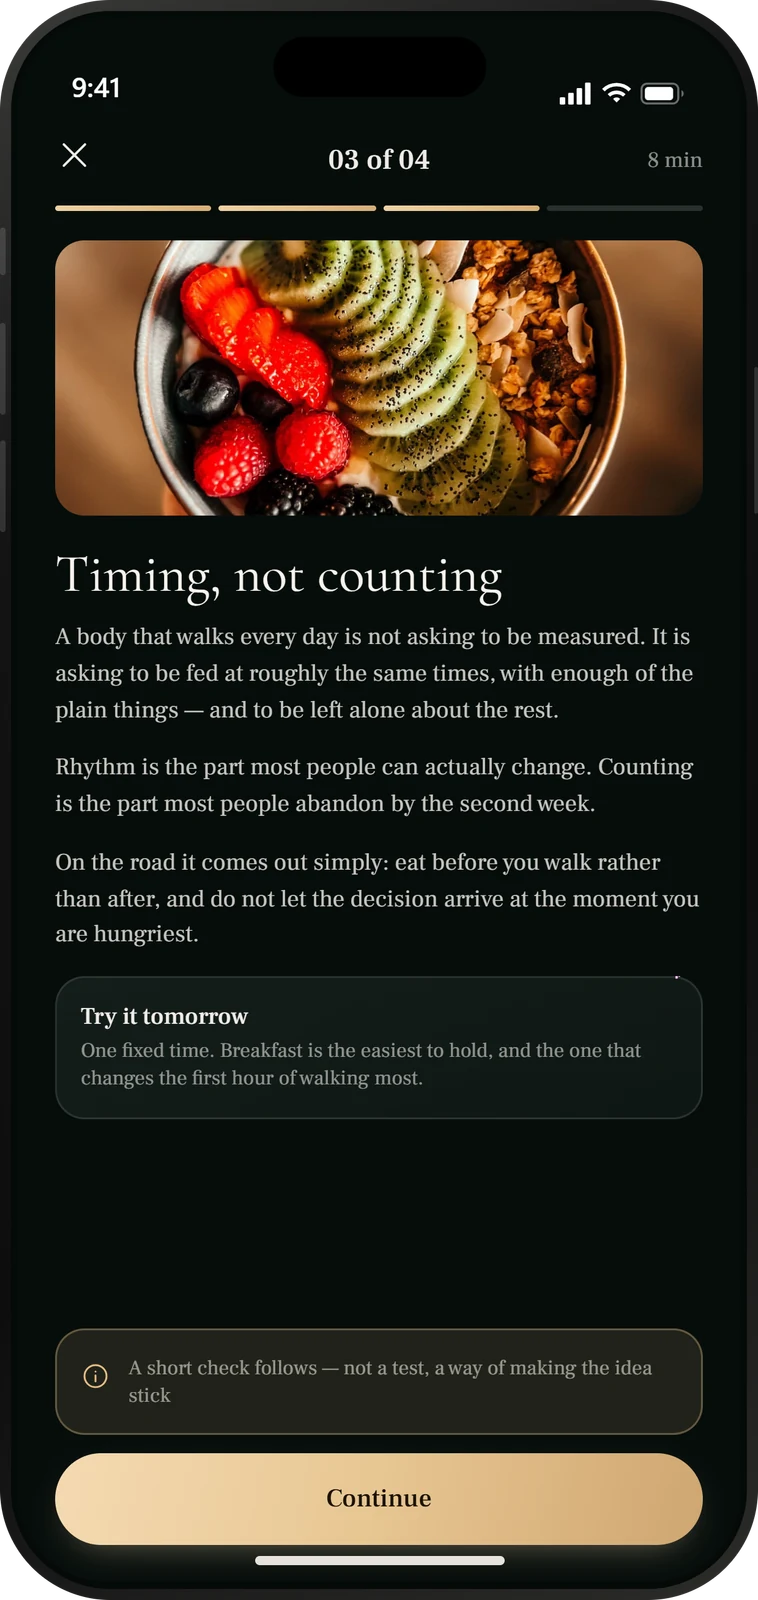
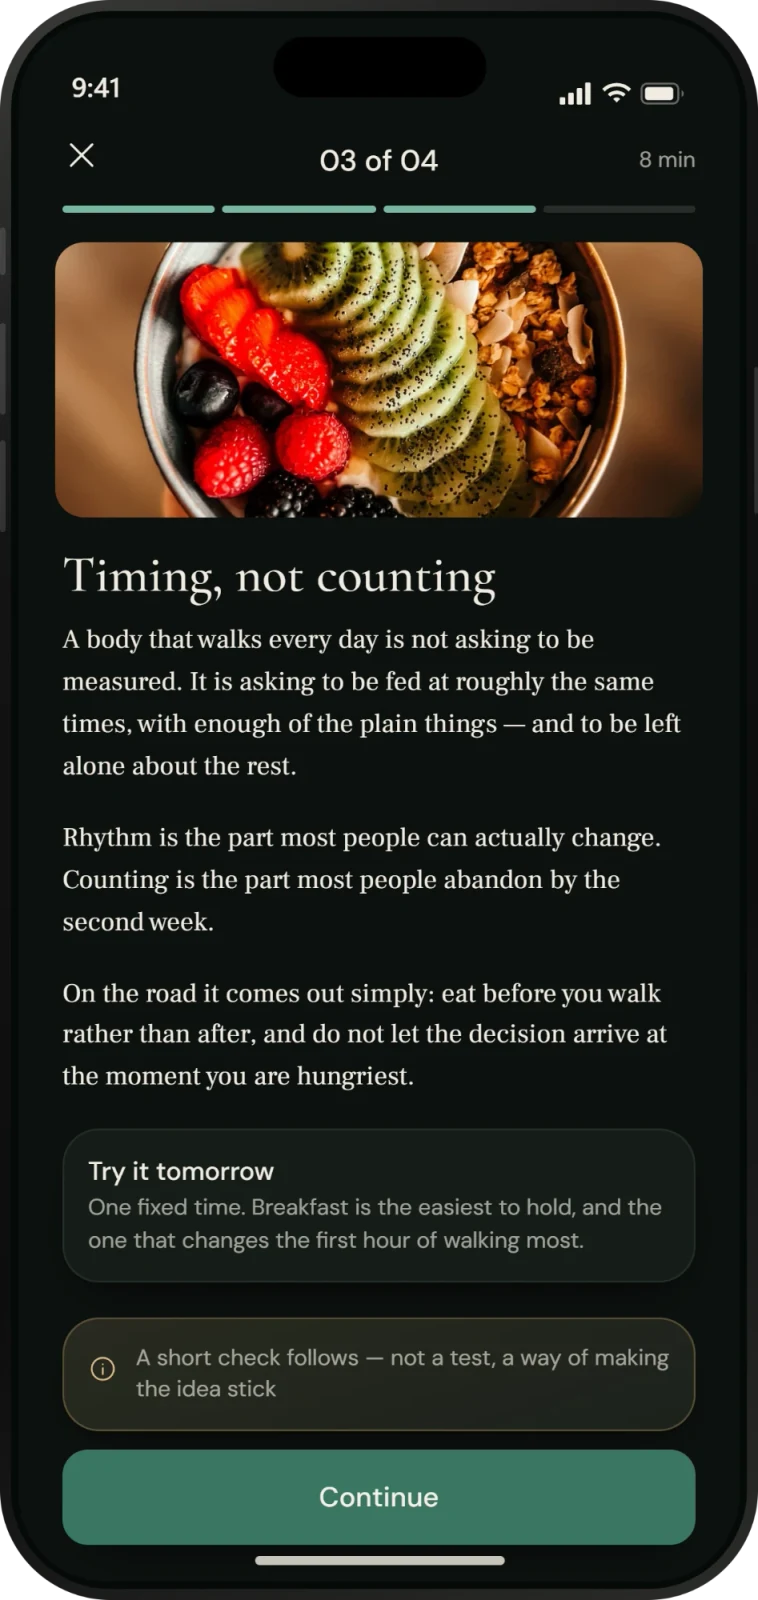
Learning and rewards screens moved to the October design
LE-02, LE-03 and RC-02 replace the last September screens; the rewards strip
pairs RC-02 with RC-01, so app-credits-open is no longer used.

Claude-Session: https://claude.ai/code/session_01VKjSjrypMLQakLhtSxjyLv

diff --git a/app.html b/app.html
@@ -2750,7 +2750,7 @@ img{height:auto;}
       <figcaption><b>A module, opened</b>Four short lessons, a few minutes each, and the credits are attached to finishing — not to turning up every day.</figcaption>
     </figure>
     <figure class="scr">
-      <img loading="lazy" decoding="async" src="images/app-lesson.webp" width="758" height="1600" alt="A lesson in the DAOasis app: Light, temperature, timing." />
+      <img loading="lazy" decoding="async" src="images/app-lesson.webp" width="758" height="1600" alt="A lesson in the DAOasis app: Timing, not counting — eat before you walk rather than after." />
       <figcaption><b>A lesson inside it</b>One idea at a time, in plain language, closing with a short check that is a way of making the idea stick rather than a test.</figcaption>
     </figure>
   </div>
@@ -2819,12 +2819,12 @@ img{height:auto;}
        statement anywhere on the site that credits are not an instrument. -->
   <div class="scr-strip reveal">
     <figure class="scr">
-      <img loading="lazy" decoding="async" src="images/app-credits.webp" width="758" height="1600" alt="Reward Credits: 1,284 earned through participation, and what earned them this week." />
-      <figcaption><b>Where every credit came from</b>Earned through participation — movement, breathing, learning, a waypoint reached — and nothing here was bought. Credits cannot be bought, sold or transferred.</figcaption>
+      <img loading="lazy" decoding="async" src="images/app-credits-source.webp" width="758" height="1600" alt="Where they came from: every Reward Credit earned, with what earned it and when." />
+      <figcaption><b>Where every credit came from</b>Every credit, when it was earned and why. They cannot be bought, sold or transferred, and they are never awarded retrospectively.</figcaption>
     </figure>
     <figure class="scr">
-      <img loading="lazy" decoding="async" src="images/app-credits-open.webp" width="758" height="1600" alt="What Reward Credits open: waypoint stories, accountability pairing, a Sanctuary contribution." />
-      <figcaption><b>And what they open</b>Extended waypoint stories, accountability pairing, and a contribution toward a stay at the Sanctuary. Marketplace benefits are still in development, and the screen says so.</figcaption>
+      <img loading="lazy" decoding="async" src="images/app-credits.webp" width="758" height="1600" alt="Reward Credits: 1,284 earned through participation, counting towards a Sanctuary contribution." />
+      <figcaption><b>And where they can lead</b>Credits earned walking to Phuket can contribute to a stay there. The Sanctuary is planned for 2027, and nothing in this balance was bought.</figcaption>
     </figure>
   </div>
 </section>

diff --git a/CLAUDE.md b/CLAUDE.md
@@ -7246,12 +7246,14 @@ co2 14%/65% next waypoint, co3 78%/24% day card, co4 80%/84% tiles).
 Verified 0 card/card, card/image and card/running-head overlap at six desktop
 sizes.
 
-### STILL THE OLD DESIGN — not in the upload
-`app-module` (LE-02), `app-lesson` (LE-03) — the learning strip, the
-Ecosystem Learn beat and web3 row 3 — and `app-credits-open` (RC-03), the
-rewards strip's second figure. They are the gold-accent September design next
-to green October screens. **Re-export LE-02, LE-03 and RC-03 and drop them in
-under the same filenames.**
+### The last three, supplied the same day
+LE-02 → `app-module`, LE-03 → `app-lesson`, RC-02 → `app-credits-source`
+(947x2000 sources, transparent corners, same pipeline). **Every app screen on
+the site is now the October design.** The rewards strip is RC-02 ("Where every
+credit came from", its own footnote as caption) + RC-01 ("And where they can
+lead", the Sanctuary-contribution line verbatim). RC-03 was never needed, so
+`app-credits-open.webp` was deleted. The lesson alt now names the real lesson,
+"Timing, not counting".
 
 ### Flagged in the new screens themselves
 - QU-02, QU-03, QU-06 and JO-05 have text **cut off at the right edge** in the
